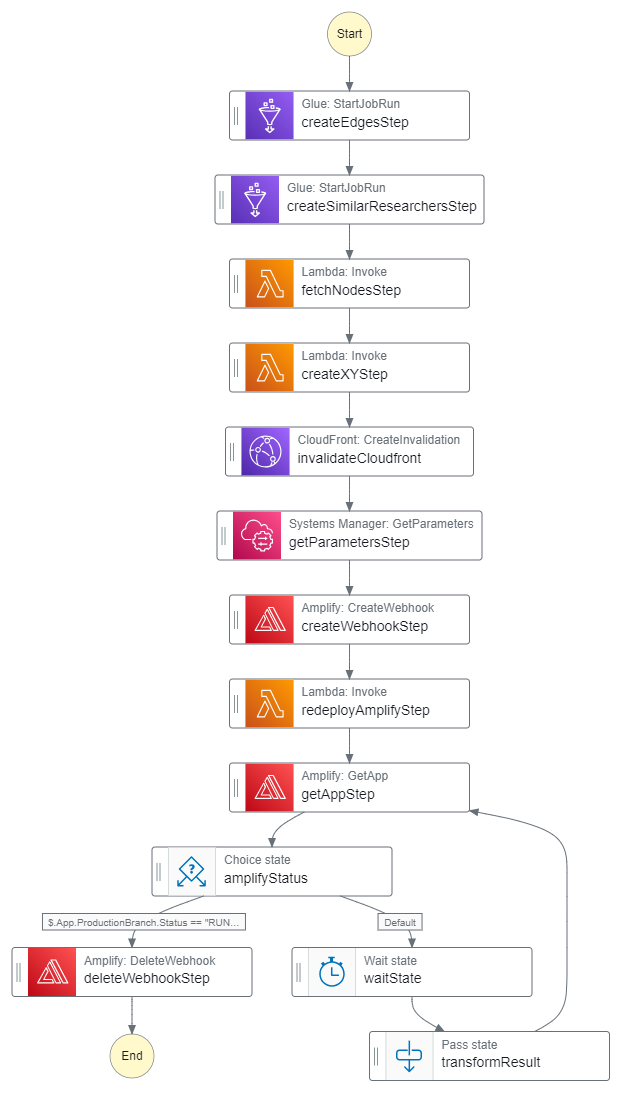
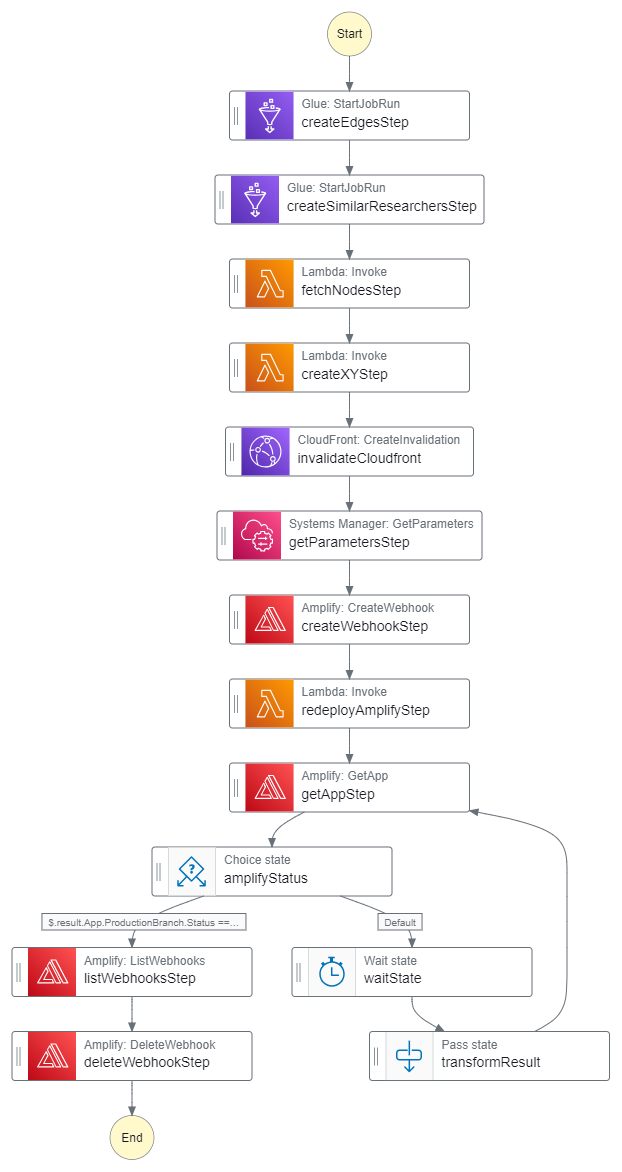
Step functions workflow and documentation updated to correctly delete webhooks

Changed region(s): [[0.0, 0.0, 0.9164, 0.9954], [0.8859, 0.7155, 0.9164, 0.7777], [0.7331, 0.6221, 0.7637, 0.6532]]

diff --git a/back_end/cdk/lib/graphdata-stack.ts b/back_end/cdk/lib/graphdata-stack.ts
@@ -263,8 +263,19 @@ export class GraphDataStack extends Stack {
       iamAction: 'amplify:*',
       parameters: {
         "AppId": JsonPath.stringAt("$.Payload.appId")
-      }
+      },
+      resultPath: "$.result"
     });
+
+    const listWebhooksStep = new tasks.CallAwsService(this, 'listWebhooksStep', {
+      service: 'amplify',
+      action: 'listWebhooks',
+      iamResources: ['*'],
+      iamAction: 'amplify:*',
+      parameters: {
+        "AppId": JsonPath.stringAt('$.Payload.appId') 
+      }
+    })
 
     const deleteWebhookStep = new tasks.CallAwsService(this, 'deleteWebhookStep', {
       service: 'amplify',
@@ -272,7 +283,7 @@ export class GraphDataStack extends Stack {
       iamResources: ['*'],
       iamAction: 'amplify:*',
       parameters: {
-        "WebhookId": JsonPath.stringAt('$.Payload.id') 
+        "WebhookId": JsonPath.stringAt('$.Webhooks[0].WebhookId') 
       }
     })
 
@@ -326,14 +337,14 @@ export class GraphDataStack extends Stack {
     });
 
     const choice = new Choice(this, 'amplifyStatus');
-    const condition = Condition.stringEquals('$.App.ProductionBranch.Status', 'RUNNING');
-    const statusLoop = choice.when(condition, deleteWebhookStep).otherwise(
+    const condition = Condition.stringEquals('$.result.App.ProductionBranch.Status', 'RUNNING');
+    const statusLoop = choice.when(condition, listWebhooksStep.next(deleteWebhookStep)).otherwise(
       new Wait(this, 'waitState', {
         time: WaitTime.duration(cdk.Duration.seconds(3))
       }).next(new Pass(this, 'transformResult', {
         parameters: {
           "Payload": {
-            "appId.$": "$.App.AppId"
+            "appId.$": "$.result.App.AppId",
           }
         }
       })).next(getAppStep)

diff --git a/docs/KnowledgeGraphDataPipelineDeepDive.md b/docs/KnowledgeGraphDataPipelineDeepDive.md
@@ -46,7 +46,31 @@ Creating the cache files and making them accessible to the Amplify deployment is
 
 The following is a brief description of each step in the state machine:
 
-1. 
+1. **createEdgesStep**: This glue job transforms existing researcher and publication data from the PostgreSQL database. It then uses the transformed data to populate the edges_full table in the database, which defines how researchers will be connected to each other in the graph. It also stores the edges as a JSON file in an S3 bucket.
+
+2. **createSimilarResearchersStep**: This glue job transforms existing researcher data from the PostgreSQL database. It then uses the transformed data to populate the potential_edges table in the database, which defines researchers who are similar to eachother based on shared keywords.
+
+3. **fetchNodesStep**: A Lambda function to extract the node data for all nodes from the database and store it as a JSON file in an S3 bucket. 
+
+4. **createXYstep**: A Lambda function to update all nodes in the S3 bucket JSON file with x and y coordinates that will determine the layout of the graph. This layout is calculated by using the [graphology-layout-forceatlas2](https://www.npmjs.com/package/graphology-layout-forceatlas2) algorithm in this function.
+
+5. **invalidateCloudfront**: The Cloudfront distribution that serves the graph content acts like a cache. So, unless the cache is invalidated, it will continue to serve the same outdated content for a few hours. To prevent that, the state machine runs an invalidation on the Cloudfront distribution.
+
+6. **getParametersStep**: Information about the Amplify app (app id and branch name) is stored as SSM parameters during the first Amplify build. These parameters are accessed during this step to feed to the next step.
+
+7. **createWebhookStep**: An Amplify webhook is created.
+
+8. **redeployAmplifyStep**: A Lambda function that sends a post request to the webhook created. This results in the Amplify app to redeploy.
+
+9. **getAppStep**: This step checks the Amplify app to make sure it has been redeployed. Deleting the webhook before making sure of this sometimes causes the app tonot redeploy. 
+
+10. **amplifyStatus**: This step checks if the app status from the previous state is set to "RUNNING" which means that it is redeploying. If it is, control is transfered to the deleteWebhookStep else to the waitState.
+
+11. **waitState**: Wait for 3 seconds before checking the app status again.
+
+12. **transformResult**: An intermediate state responsible for transforming the input data into the right format for processing by the getAppStep.
+
+13. **deleteWebhookStep**: Delete the created webhook.
 
 Running the state machine automatically runs the two glue jobs associated with creating the tables associated with the graph in the database. Then, depending on the structure of the graph, a display layout is determined. This is done by using the [graphology-layout-forceatlas2](https://www.npmjs.com/package/graphology-layout-forceatlas2) alogorithm which gives each node an x and a y coordinate postion. The node data (with the positions) and the edge data is then stored in the S3 bucket.
 

diff --git a/docs/ArchitectureDeepDive.md b/docs/ArchitectureDeepDive.md
@@ -50,9 +50,9 @@ Architecture Diagram exported as XML file from draw.io can be found [here](Exper
 5.   This step will start a data Replication Task on AWS Data Migration Service (DMS) to replicate the new patent data into AWS Opensearch Service. After this process is done, the data will be searchable on the front-end web app.
 
 #### Steps 30-33 are explored in more detail as part of the [Knowledge Graph Pipeline Deep Dive](/docs/KnowledgeGraphDataPipelineDeepDive.md)
-30. The graph state machine does a number of tasks (see [here](/docs/KnowledgeGraphDataPipelineDeepDive.md#4-state-machine-workflow)). The first job transforms existing researcher and publication data from the PostgreSQL database. It then uses the transformed data to populate the edges_full table in the database, which defines how researchers will be connected to each other in the graph. The second job transforms existing researcher data from the PostgreSQL database. It then uses the transformed data to populate the potential_edges table in the database, which defines researchers who are similar to eachother based on shared keywords.
+30. The graph state machine does a number of tasks (see [here](/docs/KnowledgeGraphDataPipelineDeepDive.md#4-state-machine-workflow)). The first job transforms existing researcher and publication data from the PostgreSQL database. It then uses the transformed data to populate the edges_full table in the database, which defines how researchers will be connected to each other in the graph. It also stores the edges in an S3 bucket as a JSON file. The second job transforms existing researcher data from the PostgreSQL database. It then uses the transformed data to populate the potential_edges table in the database, which defines researchers who are similar to eachother based on shared keywords.
 
-31. Two Lambda functions in the state machine are responsible for extracting all the nodes and edges into memory and storing the graph in an S3 bucket in the form of json files.
+31. Two Lambda functions in the state machine are responsible for extracting all the nodes into memory and storing them in an S3 bucket in the form of a json file.
 
 32. The S3 bucket sources a cloudfront distribution that provides fast access to the graph json files around the world. 
 
